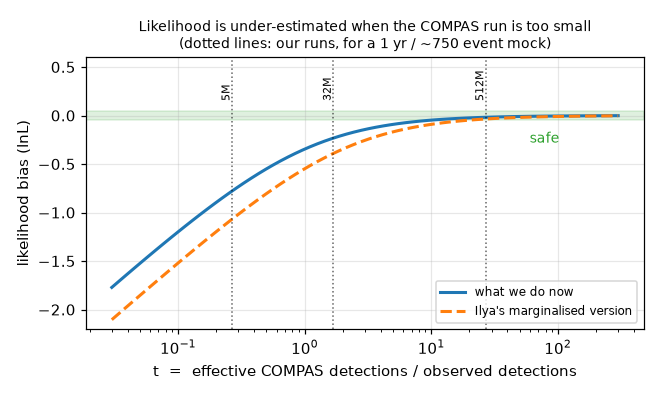
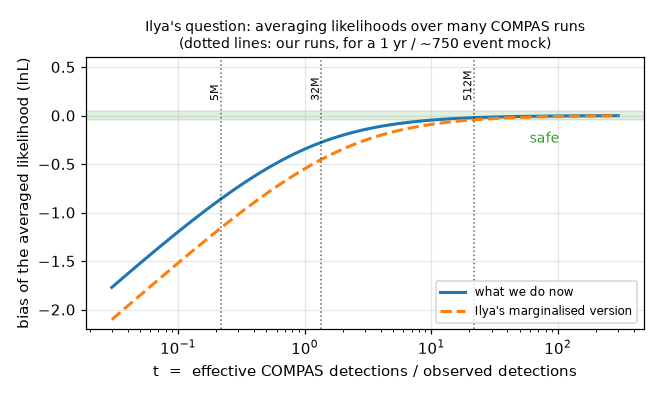
updates

diff --git a/home/meeting-minutes.md b/home/meeting-minutes.md
@@ -17,20 +17,41 @@ Catch up with Jeff.
 * The error always goes the same way: **we under-estimate the likelihood, never over-estimate it.**
 * Worst case: if a COMPAS run predicts zero detections, the likelihood is exactly zero. Averaging lots of zeros destroys the answer. This is what Ilya's January plot was showing.
 
-#### Everything depends on one number
+#### ⚠ Two different biases — do not mix them up
+
+There are two versions of "the bias", and they are **not** the same number:
+
+| | what it is | when it applies |
+| --- | --- | --- |
+| **(a)** `ln E[L̂]` | run COMPAS many times, average the **likelihoods**, then take the log | Ilya's "split N binaries into R runs" question |
+| **(b)** `E[ln L̂]` | run COMPAS **once**, take the log — this is what the **GP is trained on** | **our pipeline** |
+
+Jensen's inequality means (a) ≠ (b), and for this estimator they differ a lot. Everything below about *our* results uses **(b)**.
+
+#### (a) Ilya's question: averaging over runs
 
 > **t = (effective COMPAS detections) / (observed detections)**
 
-| t   | bias in lnL | verdict            |
-| --- | ----------- | ------------------ |
-| 0.1 | −9.1        | broken             |
-| 1   | −0.63       | bad                |
-| 10  | −0.05       | OK                 |
-| 100 | −0.005      | fine               |
+| t   | bias in lnL | verdict |
+| --- | ----------- | ------- |
+| 0.1 | −9.1        | broken  |
+| 1   | −0.63       | bad     |
+| 10  | −0.05       | OK      |
+| 100 | −0.005      | fine    |
 
-Since posterior widths are set by ΔlnL ≈ 0.5, we want **t ≳ 10**.
+<figure><img src="../.gitbook/assets/fsb_bias_vs_t.png" alt=""><figcaption>Bias of the averaged likelihood vs t. Dotted lines mark where our COMPAS runs sit for a 1 yr (~750 event) mock.</figcaption></figure>
 
-<figure><img src="../.gitbook/assets/fsb_bias_vs_t.png" alt=""><figcaption>Likelihood bias vs t. Dotted lines mark where our COMPAS runs sit for a 1 yr (~750 event) mock.</figcaption></figure>
+#### (b) Our case: one run, GP trained on lnL
+
+The algebra collapses to something much simpler:
+
+> **bias = n · ( E[ln k] − ln E[k] ) ≈ − N\_obs / (2 · N\_eff)**,  k ~ Poisson(N\_eff)
+
+* Depends on **N\_eff alone** — the `mu(λ)` dependence cancels exactly, so it does not matter where we sit relative to the likelihood peak.
+* Always negative, so **we always under-estimate lnL**.
+* Matches exact summation to <2% for N\_eff ≳ 200.
+
+Since posterior widths are set by ΔlnL ≈ 0.5, we want **N\_eff ≳ 10 × N\_obs**.
 
 #### What Ilya's marginalisation actually buys
 
@@ -45,44 +66,60 @@ The cosmic integration weights each binary by how much star formation happened a
 
 | run | raw merging BBHs | **effective** | efficiency |
 | --- | ---------------- | ------------- | ---------- |
-| 5M  | 13,019           | 200           | **1.54%**  |
-| 32M | 83,145           | 1,266         | **1.52%**  |
+| 5M  | 13,019           | 163           | **1.25%**  |
+| 32M | 83,145           | 1,018         | **1.22%**  |
+
+> ⚠ N\_eff must be computed over **systems**, not over (system × redshift) cells. Redshift is a deterministic integration grid, so its cells are perfectly correlated within a binary and are not independent samples. Counting them inflates N\_eff by ~24%.
 
 * **0.45% of merging BBHs carry 50% of the total detection rate** — identical in both runs.
-* The ~1.5% efficiency is the **same in both runs**, so it is structural. More binaries will not improve it.
-* Effective count scales **linearly** with run size (6.31× vs 6.39× raw), so it is purely a question of how big a run we pay for.
+* The ~1.2% efficiency is the **same in both runs**, so it is structural. More binaries will not improve the *efficiency*.
+* Effective count scales **linearly** with run size, so it is purely a question of how big a run we pay for.
 * Per McZ grid bin the median effective count is **1.9 (5M)** and **8.4 (32M)** — each pixel of the model grid rests on a handful of binaries.
+
+#### Why is the efficiency so low? Mostly *not* metallicity sampling
+
+COMPAS samples metallicity uniform-in-log, but the cosmic integration re-weights by a log-normal dP/dZ. That mismatch is real and large:
+
+| log10 Z        | % of systems | % of the rate |
+| -------------- | ------------ | ------------- |
+| < −3.07        | 54%          | **0.1%**      |
+| −2.45 … −2.14  | 9%           | **74%**       |
+
+More than half the run sits at metallicities that contribute essentially nothing. **But fixing the metallicity sampling only buys ~×1.4**: summing the within-metallicity-bin N\_eff gives 1380 vs 1018 as-is. Even inside the dominant Z bin the efficiency is only ~12%, so the weight variance is dominated by **within-metallicity** scatter (detectability vs chirp mass, and the redshift/SFR weighting) — not by the choice of Z sampling. Adaptive Z sampling is worth having, but it is not a substitute for a bigger run.
 
 <figure><img src="../.gitbook/assets/fsb_weight_concentration.png" alt=""><figcaption>Left: a tiny fraction of binaries carries the whole rate. Right: effective binaries backing each McZ grid bin.</figcaption></figure>
 
 #### Which analyses are safe
 
-| data                  | 5M     | 32M        |
-| --------------------- | ------ | ---------- |
-| LVK O3, ~50 events    | −0.112 | **−0.019** ✅ |
-| mock 1 yr, ~750       | −0.779 | −0.233     |
-| mock 3 yr, ~2250      | −1.252 | −0.511 ❌   |
+Single-run lnL bias, i.e. quantity **(b)**:
+
+| data                  | 5M     | 32M          | 512M (extrap.) |
+| --------------------- | ------ | ------------ | -------------- |
+| LVK O3, ~50 events    | −0.154 | **−0.025** ✅ | −0.002         |
+| mock 1 yr, ~750       | −2.314 | −0.369       | −0.023 ✅       |
+| mock 3 yr, ~2250      | −6.942 | −1.106 ❌     | −0.069         |
 
 * **The LVK analysis is fine with the 32M run.** This is the important one for the paper.
-* The 3 yr simulation study is **not** fine even with 32M.
-* Run size needed for |bias| < 0.05: ~12M binaries for 50 events, ~180M for 750, ~541M for 2250. **Jeff's 512M run would cover the 1 yr case comfortably.**
+* The 3 yr simulation study is **not** fine, even with 32M — and even the 512M run is only marginal for it. **Better to shorten the mock than to chase a bigger run.**
+* Run size needed for |bias| < 0.05: **~16M** binaries for 50 events, **~236M** for 750, **~707M** for 2250. Jeff's 512M run covers the 1 yr case comfortably.
 
 <figure><img src="../.gitbook/assets/fsb_which_analysis_safe.png" alt=""><figcaption>Bias vs number of observed events, for each COMPAS run size.</figcaption></figure>
 
 #### Does this explain the sfr\_a–sfr\_d ridge? Probably not
 
-A bias that is the same everywhere cancels out when we normalise the posterior. It only hurts if it **changes with the parameters**. Measured tilt across each prior range (32M, 750 events):
+A bias that is the same everywhere cancels out when we normalise the posterior. It only hurts if it **changes with the parameters**. "Tilt" here means `max(bias) − min(bias)` across the prior range in one direction, holding the other three at truth (N\_obs = 750):
 
-| direction | tilt (lnL) |
-| --------- | ---------- |
-| alpha     | 0.70       |
-| sigma     | 0.54       |
-| sfr\_d    | 0.05       |
-| sfr\_a    | **0.000**  |
+| direction | tilt, 5M  | tilt, 32M |
+| --------- | --------- | --------- |
+| alpha     | **4.64**  | 0.70      |
+| sigma     | **2.20**  | 0.36      |
+| sfr\_d    | 0.09      | 0.02      |
+| sfr\_a    | **0.000** | **0.000** |
 
 * The tilt sits in **alpha and sigma** (the metallicity parameters), which makes sense — they control which binaries get the big weights.
-* It is **exactly zero in sfr\_a**, because sfr\_a is a pure amplitude: it multiplies every weight equally, so it cannot change the effective sample size. (Good sanity check that the calculation is behaving.)
+* It is **exactly zero in sfr\_a**. Since the bias depends only on N\_eff, and sfr\_a is a pure amplitude that multiplies every weight equally, it *cannot* change N\_eff. The zero is exact by construction, not numerical luck.
 * So this effect **cannot** be what bends the sfr\_a–sfr\_d banana. That needs a different explanation — most likely the per-bin noise (only ~2–8 effective binaries per pixel) or the GP target scaling.
+* **But note the 5M numbers.** A 4.6 lnL differential tilt along alpha is ~10× the ΔlnL that sets 1σ. Any earlier result built on the 5M run has a badly distorted alpha/sigma likelihood surface.
 
 #### A design trade-off we had not noticed
 
@@ -93,10 +130,39 @@ Going from a 1 yr to a 3 yr mock (to get more events and a sharper peak) has a h
 
 We tripled the event count without adding a single binary, so t dropped from 0.80 to 0.27 and the bias roughly doubled. **There is an optimum observing duration we have not located.** This is exactly Ilya's January "how to split N binaries across R runs" question, and it belongs in the paper's Discussion.
 
-#### Running / still open
+#### ✅ Duration test: the ridge is NOT a finite-sample artifact
 
-* **Running now:** simulation study on 32M at 3 yr / 1 yr / 0.1 yr, to see whether the ridge softens as t improves. If it does, finite-sample bias contributes; if not, it is the GP/scaler.
-* **Not yet quantified:** the per-bin McZ grid term. My numbers cover the Poisson count term only. The grid term is likely the bigger error budget (34–72% noise per pixel) and needs a bootstrap over COMPAS systems.
+Simulation study on the **same 32M run**, varying only the mock duration (250 training points, final round). Shortening the mock improves the bias ~3× (−1.11 → −0.37):
+
+| mock  | alpha        | sigma            | sfr\_a      | sfr\_d       | **corr(sfr\_a, sfr\_d)** |
+| ----- | ------------ | ---------------- | ----------- | ------------ | ------------------------ |
+| 3 yr  | +1.1σ        | **+1.7σ**        | +0.6σ       | +1.0σ        | **0.542**                |
+| 1 yr  | −0.4σ        | **+0.0σ** ✅      | +0.5σ       | +1.5σ        | **0.593**                |
+
+Two clear conclusions:
+
+* **The sfr\_a–sfr\_d correlation does not move** (0.54 → 0.59) even though the bias improved 3×. Combined with the exactly-zero tilt along sfr\_a, this **rules out finite-sample bias as the cause of the ridge.** It is either a genuine physical degeneracy (both parameters control the rate normalisation over the observed redshift range) or a GP/sampler artifact.
+* **The sigma bias IS a finite-sample effect.** It goes from +1.7σ to bang-on truth purely by shortening the mock. Consistent with sigma being the second-most-tilted direction.
+
+The surrogate also converges much faster on the shorter mock — KL vs the final posterior at 150 training points: **1.481 (3 yr) vs 0.107 (1 yr)**.
+
+⚠ One realisation per duration (single seed), so the σ-level statements need the 100-injection PP study to be firm.
+
+#### Sampler pathology — independent evidence for the ridge
+
+emcee repeatedly failed bilby's burn-in check, with the autocorrelation estimate growing with chain length:
+
+```
+2,000-step chain  -> needs  2,244
+10,000-step chain -> needs 16,134
+```
+
+An autocorrelation time of ~16k steps is a strongly degenerate posterior. **Next step: swap the surrogate sampler to dynesty**, which is immune to this. The surrogate is cheap, so it costs almost nothing, and it cleanly separates "real degeneracy" from "emcee cannot sample it".
+
+#### Still open
+
+* **Not yet quantified:** the per-bin McZ grid term. All numbers above cover the Poisson count term only. The grid term is likely the bigger error budget (~34% noise per pixel at 32M) and needs a bootstrap over COMPAS systems.
+* 0.1 yr leg of the duration scan still running.
 
 #### Bug found
 
